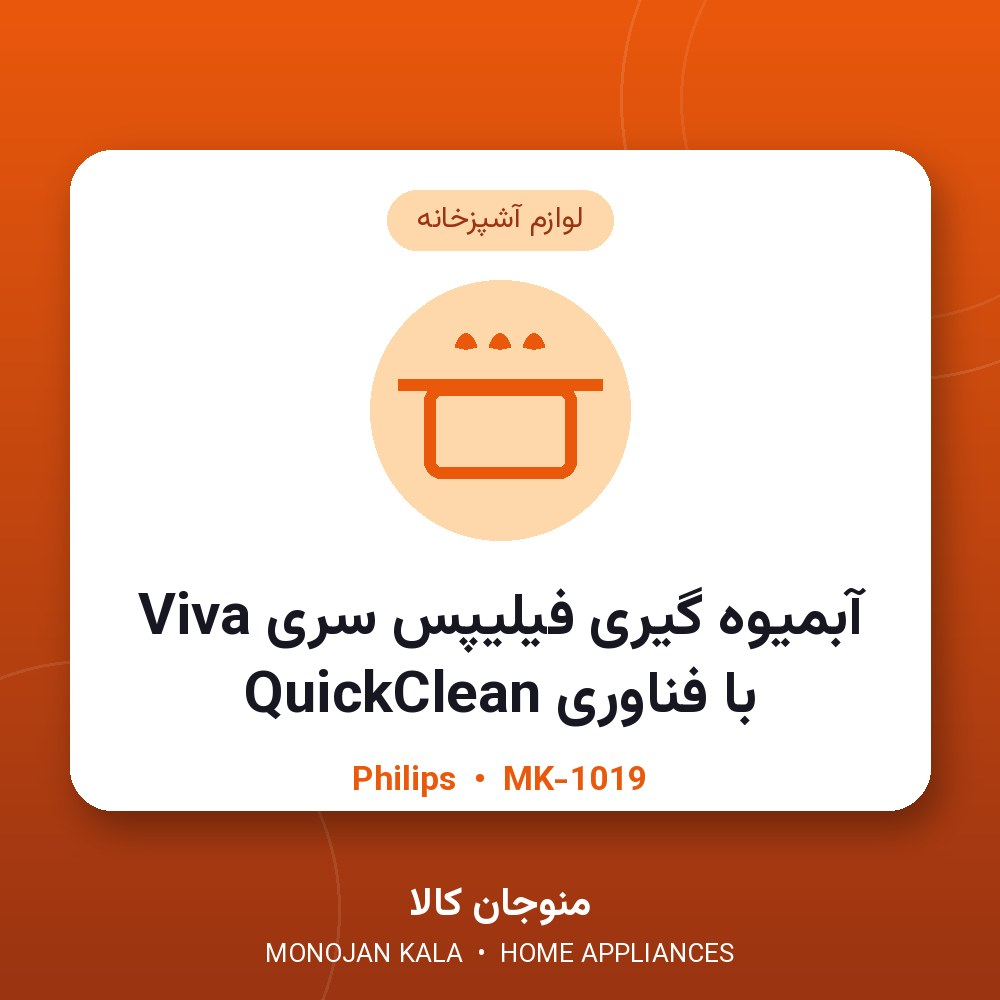
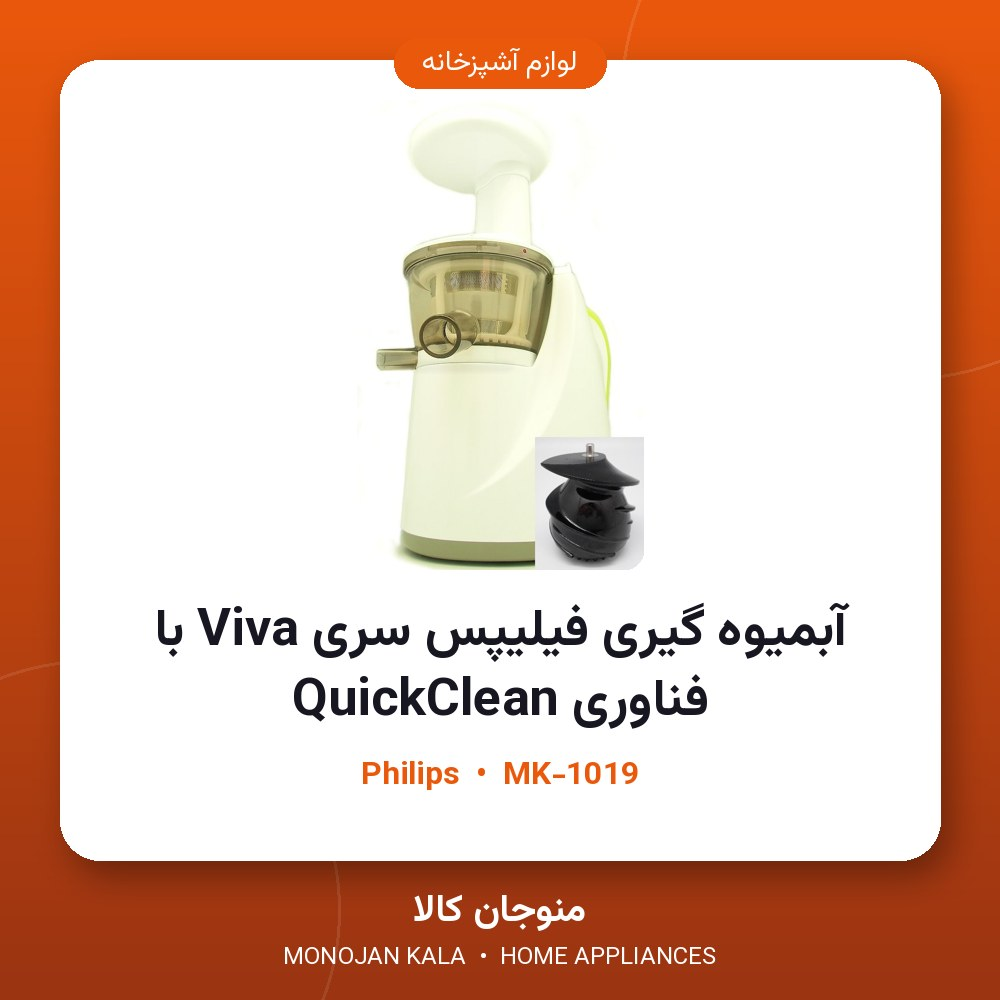
Use real licensed product photos in branded product images
- Replace icon-only placeholder graphics with real product photos
  sourced from Wikimedia Commons and Openverse (CC BY / CC BY-SA /
  Public Domain), framed inside the Monojan Kala branded 1000x1000 card
- Add image credits and license table to the import guide

Changed region(s): [[0.062, 0.031, 0.961, 0.961]]

diff --git a/docs/woocommerce-import-guide.md b/docs/woocommerce-import-guide.md
@@ -7,7 +7,7 @@
 | فایل | توضیح |
 |---|---|
 | `woocommerce-products.csv` | فایل درونریزی ۲۰ محصول با توضیحات کامل HTML و فیلدهای سئو |
-| `wordpress/product-images/*.jpg` | ۲۰ تصویر اختصاصی ۱۰۰۰×۱۰۰۰ پیکسل با نام فایل سئوشده |
+| `wordpress/product-images/*.jpg` | ۲۰ تصویر ۱۰۰۰×۱۰۰۰ پیکسل: **عکس واقعی محصول** داخل قاب برنددار منوجان کالا، با نام فایل سئوشده |
 
 ## ویژگیهای سئوی محصولات
 
@@ -47,6 +47,35 @@
 ## قیمتها
 
 قیمتها به **تومان** و شامل «قیمت عادی» و در اکثر محصولات «قیمت فروش ویژه» است. قبل از انتشار، قیمتها را با نرخ روز بازار بهروزرسانی کنید.
+
+## اعتبار و مجوز عکسها (Image Credits)
+
+عکسهای واقعی محصولات از منابع دارای مجوز آزاد (Wikimedia Commons، Flickr از طریق Openverse) برداشته شده و داخل قاب گرافیکی فروشگاه قرار گرفتهاند. مجوزهای CC BY و CC BY-SA **الزام ذکر منبع** دارند — این جدول را نگه دارید (مثلاً در صفحه «درباره ما» یا همین مخزن). عکسهای Public Domain نیاز به ذکر منبع ندارند.
+
+> 💡 پیشنهاد: این عکسها برای شروع کار مناسباند، اما در بلندمدت بهترین نتیجه سئو و اعتماد مشتری با **عکسهای رسمی تأمینکننده یا عکاسی اختصاصی** بهدست میآید.
+
+| SKU | محصول | عکس / عکاس | مجوز | منبع |
+|---|---|---|---|---|
+| MK-1000 | یخچال فریزر ساید بای ساید سامسونگ مدل RS68 | Goedeker's | CC BY 2.0 | [پیوند](https://commons.wikimedia.org/wiki/File:Samsung_Refrigerator_RF24FSEDBSR.jpg) |
+| MK-1001 | ماشین لباسشویی ال جی ۹ کیلویی سری F4 | Fanti Salms | CC BY-SA 3.0 | [پیوند](https://commons.wikimedia.org/wiki/File:Front_Load_Washing_Machine.jpg) |
+| MK-1002 | ماشین ظرفشویی بوش سری ۶ مدل ۱۴ نفره | Wikimedia Commons | Copyrighted free use | [پیوند](https://upload.wikimedia.org/wikipedia/commons/8/82/Dishwasher_open_for_loading.jpg) |
+| MK-1003 | مایکروویو پاناسونیک ۳۲ لیتری اینورتر با گریل | NeoMeesje | CC BY-SA 4.0 | [پیوند](https://commons.wikimedia.org/wiki/File:Microwave_Kitchen.jpg) |
+| MK-1004 | سرخ کن بدون روغن فیلیپس مدل Airfryer XXL | sarahstierch | CC BY | [پیوند](https://www.flickr.com/photos/7633518@N08/53004812098) |
+| MK-1005 | غذاساز و همزن حرفهای کنوود سری Chef | Nicola since 1972 | CC BY | [پیوند](https://www.flickr.com/photos/15216811@N06/9531154529) |
+| MK-1006 | اسپرسوساز دلونگی مدل Dedica EC685 | Feťour | Public domain | [پیوند](https://commons.wikimedia.org/wiki/File:Automatic_espresso_machine_02.JPG) |
+| MK-1007 | کولر گازی اینورتر گری ۱۸۰۰۰ سرد و گرم | Tony Webster | CC BY | [پیوند](https://commons.wikimedia.org/w/index.php?curid=181382673) |
+| MK-1008 | دستگاه تصفیه هوا شیائومی مدل Air Purifier 4 Pro | GEEK KAZU | CC BY 2.0 | [پیوند](https://commons.wikimedia.org/wiki/File:Xiaomi_Smart_Air_Purifier_2S.jpg) |
+| MK-1009 | جارو رباتیک آی روبات مدل Roomba i7 | Peter Kaminski | CC BY | [پیوند](https://www.flickr.com/photos/35034359460@N01/1486730) |
+| MK-1010 | جاروبرقی بدون کیسه بوش سری ۴ توان ۲۲۰۰ وات | twicepix | CC BY-SA | [پیوند](https://www.flickr.com/photos/30713600@N00/2186872393) |
+| MK-1011 | سشوار حرفهای فیلیپس مدل BHD340 | Batholith (talk) | Public domain | [پیوند](https://commons.wikimedia.org/wiki/File:Hairdryer_20101109.jpg) |
+| MK-1012 | ریش تراش براون سری ۹ پرو | photosteve101 | CC BY | [پیوند](https://www.flickr.com/photos/42931449@N07/5506706668) |
+| MK-1013 | تلویزیون هوشمند سامسونگ ۵۵ اینچ Crystal UHD | Kskhh | CC BY-SA 4.0 | [پیوند](https://commons.wikimedia.org/wiki/File:Samsung_LED_TV.jpg) |
+| MK-1014 | ساندبار ال جی ۳.۱ کانال با ساب ووفر بیسیم | Dinkun Chen | CC BY-SA 4.0 | [پیوند](https://commons.wikimedia.org/wiki/File:SAMSUNG_SOUNDBAR_HW-J250.jpg) |
+| MK-1015 | چای ساز و کتری برقی فلر مدل TS091 | Rafa | Public domain | [پیوند](https://commons.wikimedia.org/wiki/File:Electric_kettle_phillips_white.JPG) |
+| MK-1016 | پلوپز پارس خزر ۸ نفره مدل تیان | alex.shultz | CC BY | [پیوند](https://www.flickr.com/photos/98288842@N00/40716143) |
+| MK-1017 | اتو بخار تفال مدل Ultragliss با کف سرامیکی | Santeri Viinamäki | CC BY-SA 4.0 | [پیوند](https://commons.wikimedia.org/wiki/File:Philips_EasyCare_3220_steam_iron.jpg) |
+| MK-1018 | بخارشوی کارچر مدل SC3 EasyFix | Cjp24 | CC BY-SA 4.0 | [پیوند](https://commons.wikimedia.org/wiki/File:Polti_steam_mop_or_portable.jpg) |
+| MK-1019 | آبمیوه گیری فیلیپس سری Viva با فناوری QuickClean | Fa. eujuicers / Fritzs | CC BY-SA 3.0 | [پیوند](https://commons.wikimedia.org/wiki/File:Hurom_juicer3.jpg) |
 
 ## پیشنهادهای تکمیلی سئو
 
